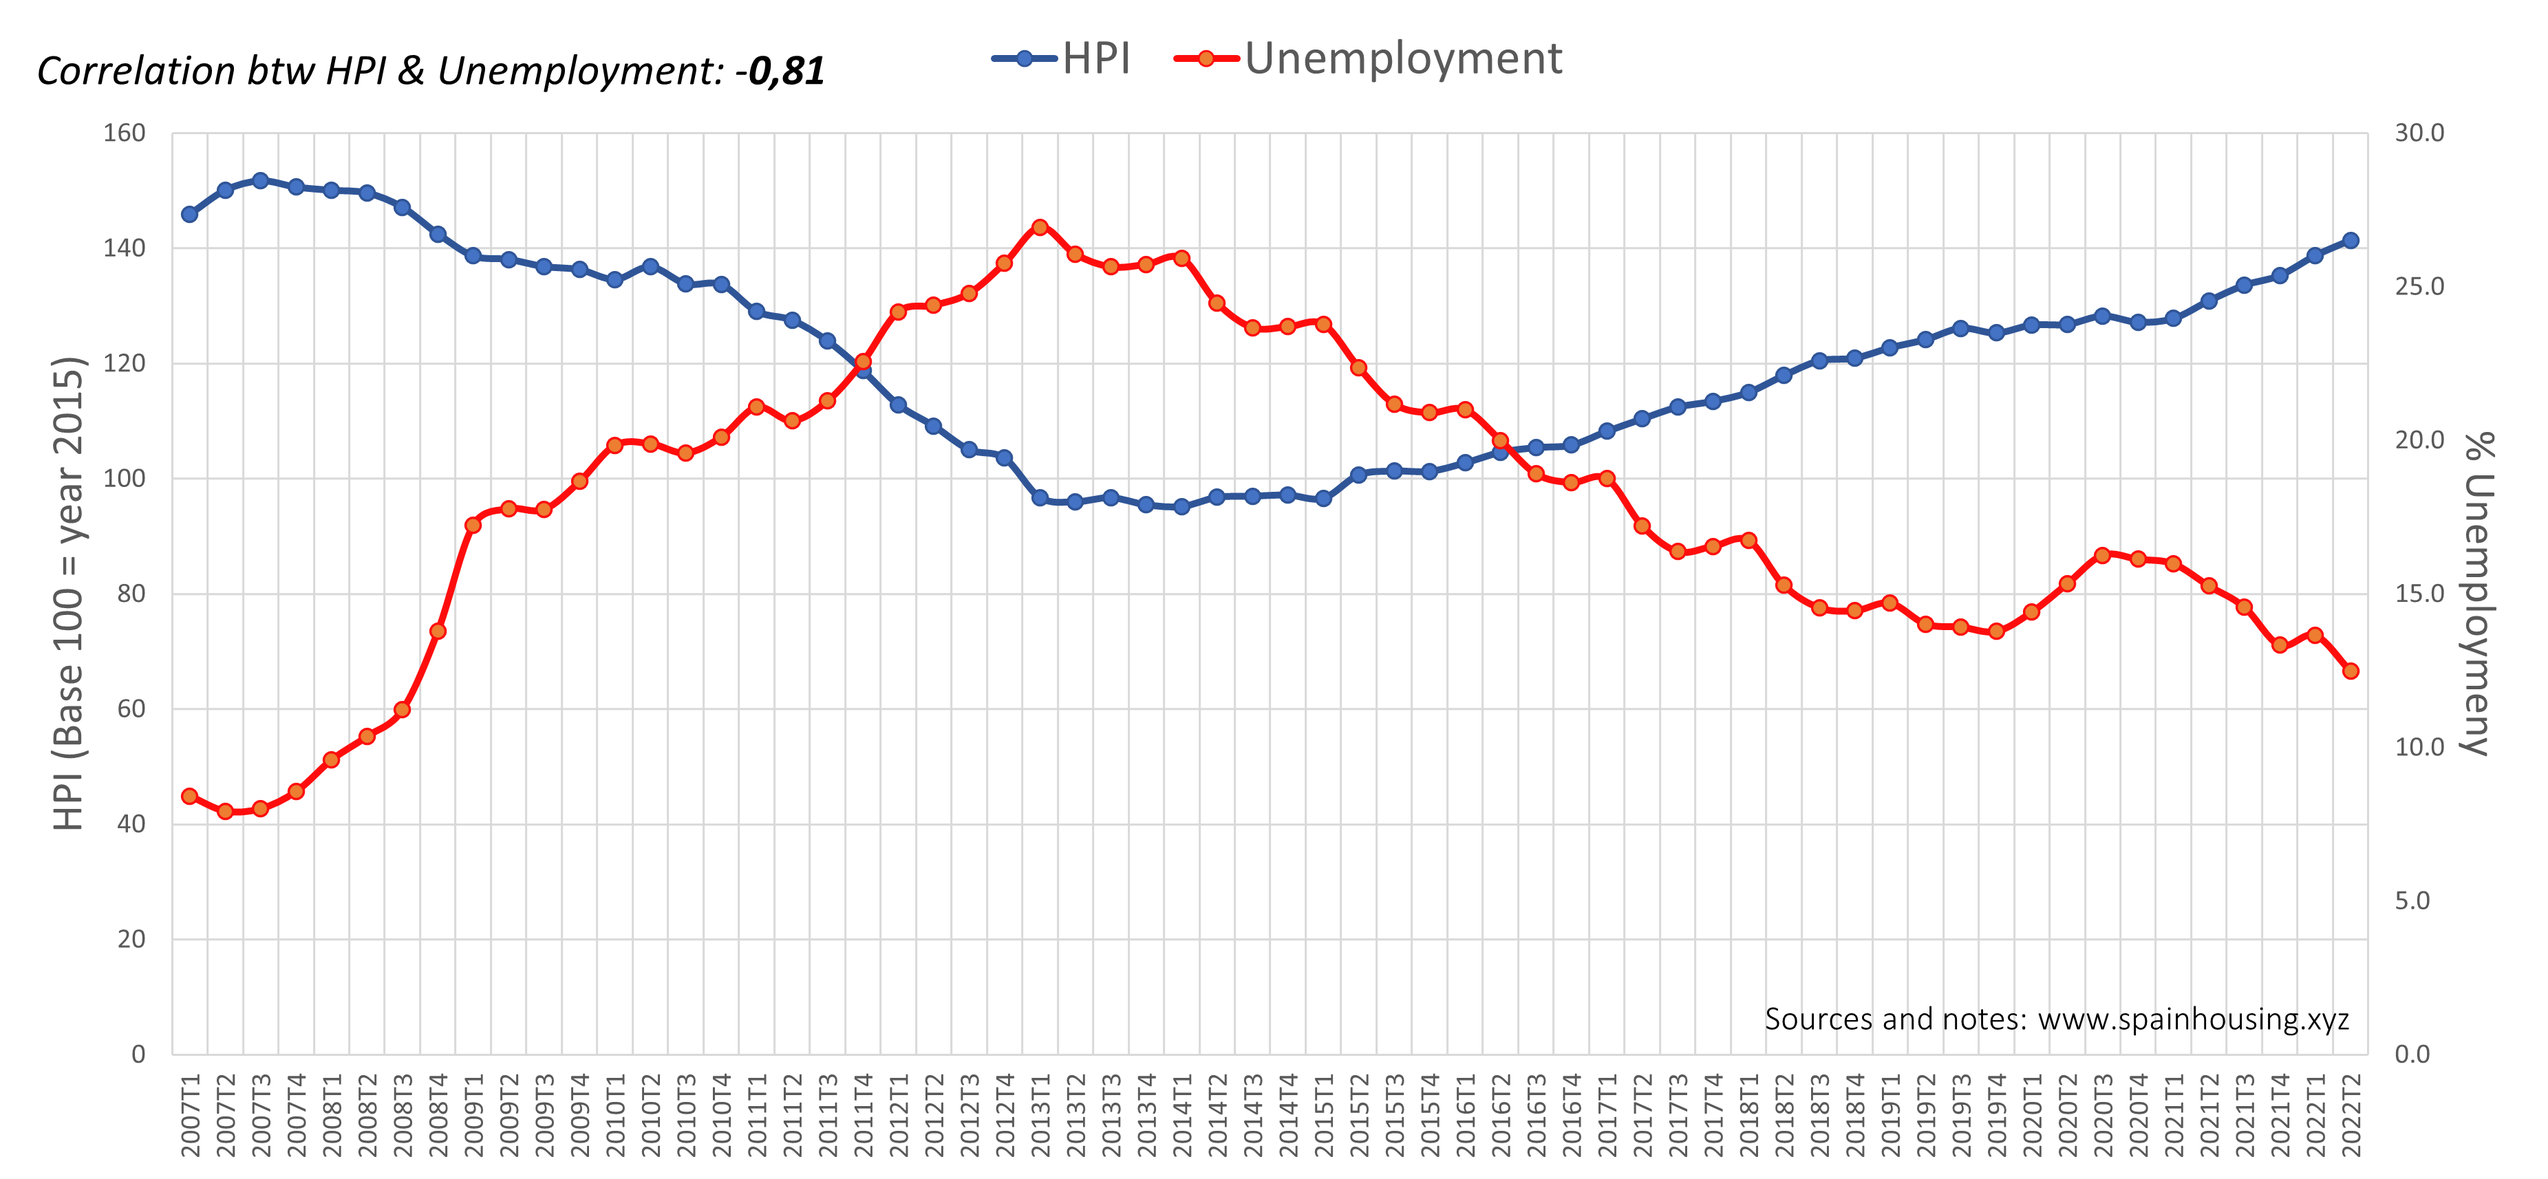
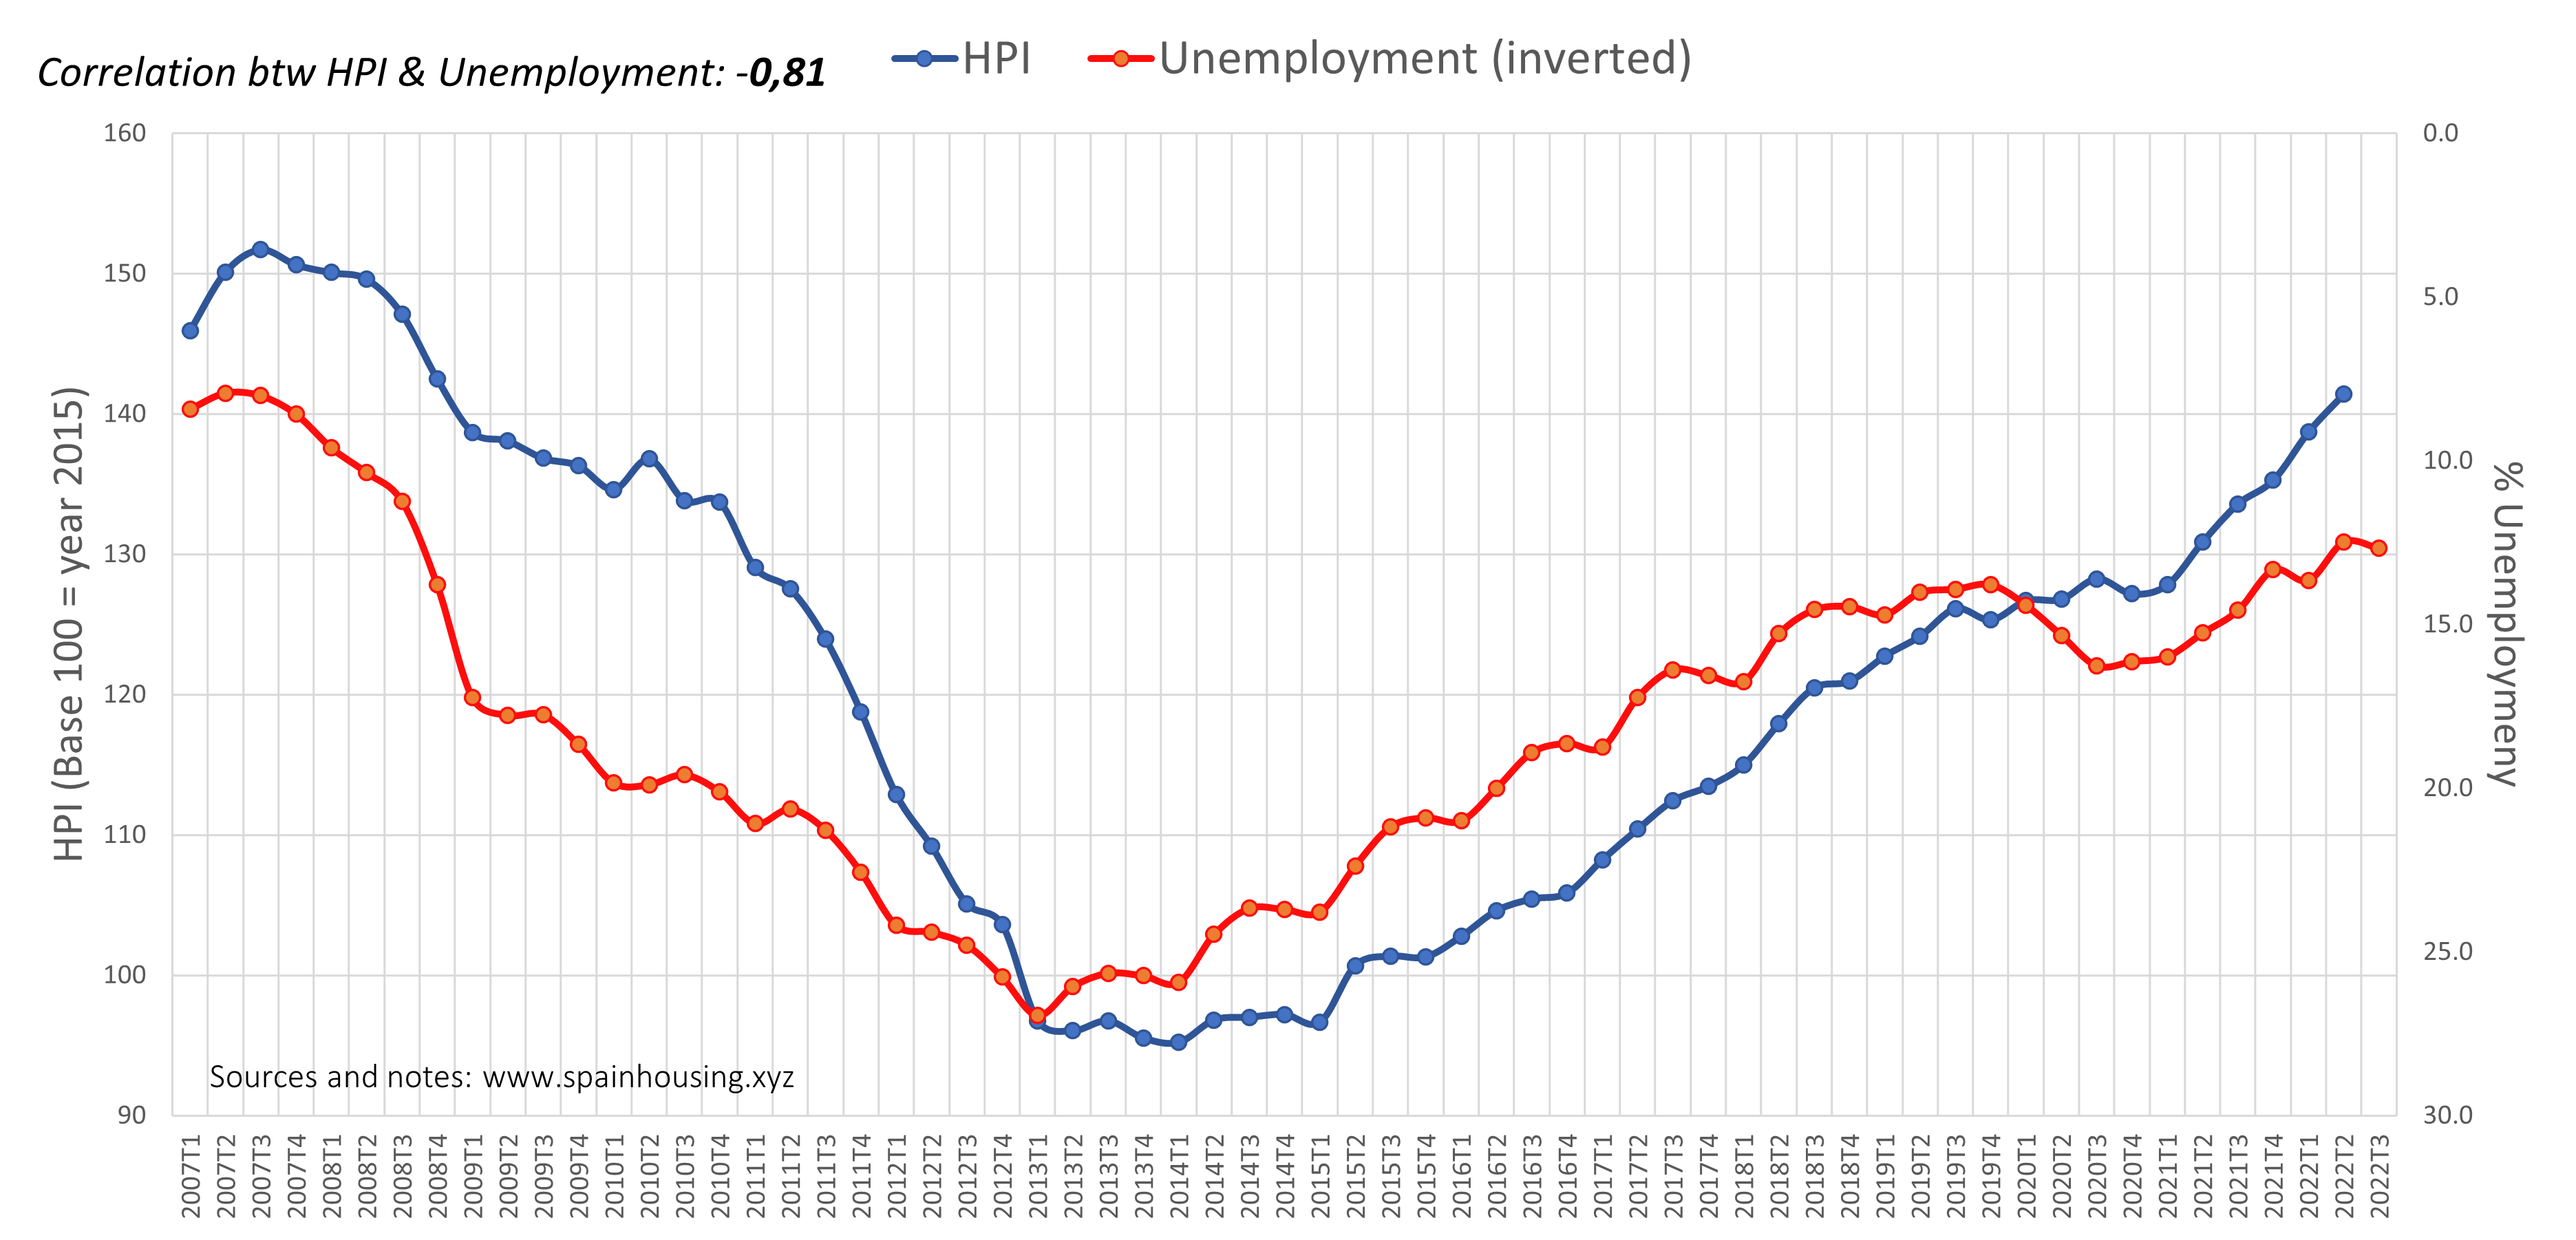
updte

Changed region(s): [[0.0, 0.0309, 0.9938, 0.9895]]

diff --git a/pages/posts/labor.md b/pages/posts/labor.md
@@ -18,7 +18,7 @@ import Image from 'next/image'
 [![Paro y precio de la viviendas](/images/labor2.png)](/images/labor2.png)
 
 - **Left axis**: HPI (Housing Price Index) not inflation adjusted (base 100 = 2015).
-- **Right axis**: average unemployment rate for each quarter.
+- **Right axis**: average unemployment rate (inverted) for each quarter.
 
 # Interpretation and observations
 
